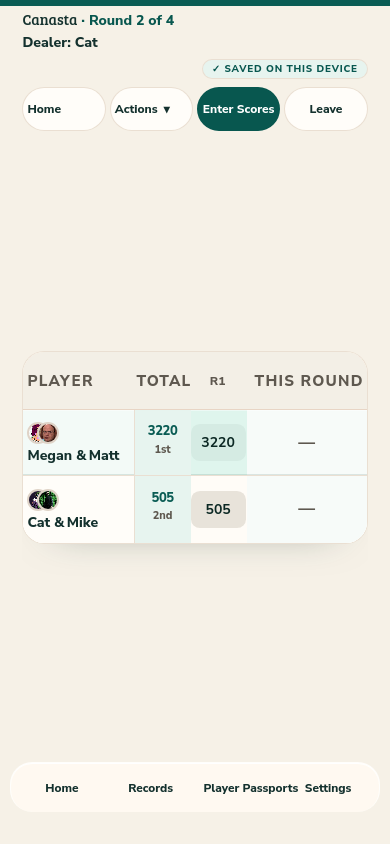
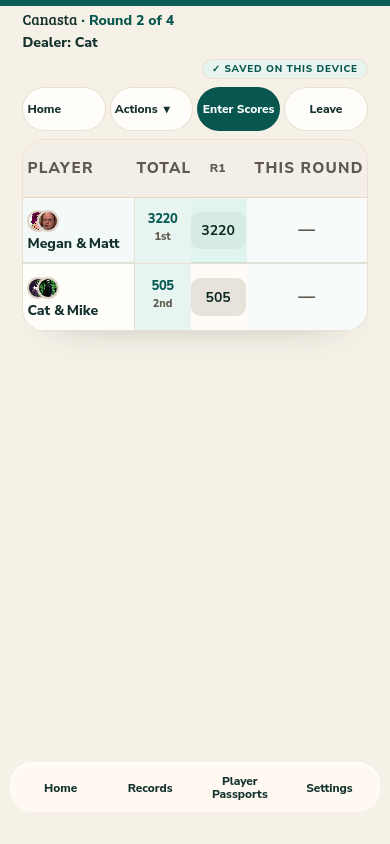
Give the phone bottom nav equal columns.
Home, Records, Player Passports, and Settings share the row, with a gap. Player Passports can take two lines. Hidden controls stay hidden.

diff --git a/public/index.html b/public/index.html
@@ -9625,12 +9625,24 @@ button.dealer-name-indicator .dealer-player-label {
       }
       html.slice2-tv body.active-match-view #top-nav > div > div:last-child {
         flex: 1 1 auto;
+        flex-wrap: nowrap;
         width: 100%;
-        justify-content: space-between;
+        gap: 0.35rem;
+        justify-content: stretch;
       }
-      html.slice2-tv body.active-match-view #top-nav .nav-btn {
+      html.slice2-tv body.active-match-view #top-nav .nav-btn:not(.hidden) {
         flex: 1 1 0;
+        width: 0;
+        min-width: 0 !important;
+        box-sizing: border-box;
         min-height: 44px;
+        height: auto;
+        padding: 0.28rem 0.2rem;
+        white-space: normal;
+        line-height: 1.15;
+        text-align: center;
+        display: flex;
+        align-items: center;
         justify-content: center;
       }
     }

diff --git a/AGENTS.md b/AGENTS.md
@@ -43,7 +43,7 @@ North star: crush requirements so one-shots get better every correction.
 - Warm Porch Ledger is the only production skin. Do not reintroduce `?slice2` / `GN_SLICE2_TV` forks. Gallery 818 and Wizard rows must be legal bids, actuals, and scores, including 818 dealer law. A desired Life Preserver gap does not license impossible totals. See `docs/solutions/rc1-one-skin.md`.
 - The worker that Vercel ships is `src/service-worker.js` copied over `public/sw.js` by `npm run build`. That template must precache the scripts the page loads (`life-preserver-logic.js`, `backup.js`, `scorebook.js`) and must not list `comeback-logic.js`. `npm run check` fails if they disagree, or if the template `CACHE_NAME` loses `__BACK_PORCH_RELEASE__` or the `back-porch-shell-` prefix. Do not treat the committed `public/sw.js` as what production serves after a build.
 - Phone scoreboard (`max-width: 760px`): one row of Home, Actions, and Enter Scores; Save & End is last in Actions and still confirms; the app nav stays on screen; the seat list scrolls inside the visual viewport. Do not clip later ranks. The back control says Home at every size and leaves the match on Resume. The round number stays in the header. A Life Preserver cell keeps the score size and grows in height so the adjustment fits.
-- A hidden scorecard column is not a deleted hand. If Pace or the column trim removes the hand a Life Preserver followed, the mark sits with Total. Place ties use the same numeric comparison as the sort, including numeric strings. See `docs/solutions/scorecard-places-and-life-preserver.md`. Reserve NOW min-width and shrink round columns; do not hide another oldest hand to unclip a NOW that is already on screen. See `docs/solutions/rc2-look-1400.md`. The live scorecard card keeps a stable max width and does not run edge to edge. Do not hug a long table after Round 1. A two-team Canasta card hugs its rows and keeps the team name on one line. Phone nav says Player Passports and Settings. Biggest comeback is ranked inside each game, on that game's points. See `docs/solutions/bt-board-and-comeback.md`. The player column takes leftover width; Total and rounds stay fixed. Displayed records, passport, and scorecard numbers use at most one decimal. Wins, win %, win streak, and games played follow the saved outcome: finished counts, ended early and needs review count only with Count this result, and a pause does not. A counted partial total is never a full-game score record. Every tied winner gets a win. Left early never wins. See `docs/solutions/rc4-usability.md`.
+- A hidden scorecard column is not a deleted hand. If Pace or the column trim removes the hand a Life Preserver followed, the mark sits with Total. Place ties use the same numeric comparison as the sort, including numeric strings. See `docs/solutions/scorecard-places-and-life-preserver.md`. Reserve NOW min-width and shrink round columns; do not hide another oldest hand to unclip a NOW that is already on screen. See `docs/solutions/rc2-look-1400.md`. The live scorecard card keeps a stable max width and does not run edge to edge. Do not hug a long table after Round 1. A two-team Canasta card hugs its own height, stays under the header, and keeps the team name on one line. Phone nav says Player Passports and Settings, and the bottom row gives those labels equal widths. Biggest comeback is ranked inside each game, on that game's points. See `docs/solutions/bt-board-and-comeback.md`. The player column takes leftover width; Total and rounds stay fixed. Displayed records, passport, and scorecard numbers use at most one decimal. Wins, win %, win streak, and games played follow the saved outcome: finished counts, ended early and needs review count only with Count this result, and a pause does not. A counted partial total is never a full-game score record. Every tied winner gets a win. Left early never wins. See `docs/solutions/rc4-usability.md`.
 - Life Preserver labels stay inside every slice. About 20-40 equal-ish pockets. Category shares stay exact via subtle widths; the draw still uses the live 45/30/5/12/8 table. No callouts, leader lines, or casino red/black. Cute cream/teal toy roulette, not casino chrome. Size the modal from leftover viewport so Use Your One Spin stays on screen. `?lp=proposed` is removed from the page. Proposed amounts stay in unit tests via `options.table`. See `docs/solutions/rc1-lp-roulette-wheel.md`.
 - Do not ship TEMP demo-loading. `public/assets/demo-seed.mjs`, `demo-art.mjs`, `demo-art.css`, `bootDemoSeedIfRequested`, and `window.BPGDemoLiveGame` stay out of the app. Tests inject fixtures. The gated `?gnqa` gallery can stay. See `docs/solutions/rc2-no-demo-seed.md`.
 - Laptop Home columns stretch to the same height. Seats are one per row and reorder in the list. Recent nights stays full width. Home reorder writes `players` only; it does not restack an active match. See `docs/solutions/home-recent-nights-column.md`.

diff --git a/docs/solutions/gate-log.md b/docs/solutions/gate-log.md
@@ -177,3 +177,5 @@ The table starts with a header and one example row. The example is the format. I
 | 2026-11-13 | bs-polish | taste_ui. The wheel control stays on the right of the player cell. A comeback uses the shelf name and names both partners. A Canasta round in progress is a labeled sum. | 3 | n/a | fallback | Gate C. Conservative. The packet is in the draft PR. Duke, Brick, and Linda stay whole at 1024 and 390. The team row says Cat and Mike won Canasta. A blank Canasta round says Not ready, and Basic 800 + Count 150 reads 950 so far. The lead toast stays inside the card and above the phone nav. Draft only. Do not undraft, merge, or deploy. |
 | 2026-11-13 | bt-board-and-comeback | taste_ui. A lead toast names the team that passed. Canasta names stay one line and the card hugs two rows. Phone nav says Player Passports and Settings. Biggest comeback is ranked inside each game. | 3 | n/a | fallback | Gate B. Proceed on draft PR #86. Rank within each game and keep that game's points. Do not change score math. Do not touch Rook, Comeback Extra, or sync. Do not undraft, merge, or deploy. |
 | 2026-11-13 | bt-board-and-comeback | taste_ui. A lead toast names the team that passed. Canasta names stay one line and the card hugs two rows. Phone nav says Player Passports and Settings. Biggest comeback is ranked inside each game. | 3 | n/a | fallback | Gate C. Conservative. The packet is in the draft PR. Cat & Mike take the lead on the real board. Megan & Matt stays one line and the card ends at the second row. Phone nav says Player Passports and Settings. Wizard 100 and Canasta 180 both stay. Draft only. Do not undraft, merge, or deploy. |
+| 2026-11-13 | bu-pin-and-nav | taste_ui. The Canasta card sits under the header. Only the card height hugs. The phone bottom nav has four equal columns and a gap. | 2 | n/a | fallback | Gate B. Proceed on draft PR #86. Do not center other short tables. Do not change the top home nav or the 768 Settings mark. Do not undraft, merge, or deploy. |
+| 2026-11-13 | bu-pin-and-nav | taste_ui. The Canasta card sits under the header. Only the card height hugs. The phone bottom nav has four equal columns and a gap. | 2 | n/a | fallback | Gate C. Conservative. The packet is in the draft PR. Canasta at 1024 and 390 starts under the header. Five Crowns 4-player and 8-player stay under the header. Phone nav at 390 and 375 keeps a gap and equal widths. Draft only. Do not undraft, merge, or deploy. |

diff --git a/docs/solutions/bt-board-and-comeback.md b/docs/solutions/bt-board-and-comeback.md
@@ -2,8 +2,8 @@
 
 A lead-toast proof has to come from a submitted round. Injecting "Ann & Bo" onto a Megan & Matt / Cat & Mike board reads as a wrong name. Enter the round so the trailing team passes, then shoot that toast.
 
-Canasta team names stay on one line (`Megan & Matt`) when the cell has room. Do not force `Megan &` / `Matt` onto two lines. A two-team card ends at the last row. The phone shell can still fill the screen; the card does not. Other games keep the stable card width.
+Canasta team names stay on one line (`Megan & Matt`) when the cell has room. Do not force `Megan &` / `Matt` onto two lines. A two-team card ends at the last row and sits under the header. The phone shell can still fill the screen; the card does not, and it does not float in the leftover cream. Other games keep the stable card width.
 
-Phone nav, top and bottom, says Player Passports and Settings. The 768 row still uses the short Settings mark.
+Phone nav, top and bottom, says Player Passports and Settings. The bottom row gives the labels equal widths, with a gap. Player Passports may take two lines. The 768 row still uses the short Settings mark.
 
 Biggest comeback is ranked inside each game. Explore shows Biggest Wizard comeback at 100 and Biggest Canasta comeback at 180. Raw points do not pick one winner across games. The deficit math is unchanged. Comeback Extra stays off.

diff --git a/docs/taste.md b/docs/taste.md
@@ -10,6 +10,8 @@ Canonical list: [taste-ledger.md](taste-ledger.md). After every durable Matt cor
 
 ### Likes
 
+- A two-team Canasta card sits under the header and View Pace. Only the card's own height hugs the rows.
+- The phone bottom nav gives Home, Records, Player Passports, and Settings equal widths, with a gap between them. Player Passports may take two lines.
 - Biggest comeback is ranked inside each game. A Canasta deficit does not erase a Wizard comeback. Each row keeps that game's own points.
 - Phone nav, on top and on the bottom of a live match, says Player Passports and Settings. Settings stays a word.
 - A Canasta team name stays on one line (`Megan & Matt`) when the cell has room beside it. The live card ends at the last team row.
@@ -96,6 +98,7 @@ Canonical list: [taste-ledger.md](taste-ledger.md). After every durable Matt cor
 
 ### Kills
 
+- Floating a short Canasta card in the middle of the cream, or letting the phone bottom-nav labels touch.
 - Comparing raw comeback points across games, so a Canasta 180 always outranks a Wizard 100.
 - A phone nav that says Profiles, or a Settings control that is only a gear.
 - Wrapping a Canasta team name onto two lines when `Megan & Matt` fits beside the avatars, or leaving a cream block under two team rows.

diff --git a/docs/taste-ledger.md b/docs/taste-ledger.md
@@ -6,6 +6,8 @@ Seeded from Prefer, Avoid, and Kill in `docs/taste.md`. Product rules stay in `d
 
 ## Likes
 
+- A two-team Canasta card sits under the header and View Pace. Only the card's own height hugs the rows.
+- The phone bottom nav gives Home, Records, Player Passports, and Settings equal widths, with a gap between them. Player Passports may take two lines.
 - Biggest comeback is ranked inside each game. A Canasta deficit does not erase a Wizard comeback. Each row keeps that game's own points.
 - Phone nav, on top and on the bottom of a live match, says Player Passports and Settings. Settings stays a word.
 - A Canasta team name stays on one line (`Megan & Matt`) when the cell has room beside it. The live card ends at the last team row.
@@ -92,6 +94,7 @@ Seeded from Prefer, Avoid, and Kill in `docs/taste.md`. Product rules stay in `d
 
 ## Kills
 
+- Floating a short Canasta card in the middle of the cream, or letting the phone bottom-nav labels touch.
 - Comparing raw comeback points across games, so a Canasta 180 always outranks a Wizard 100.
 - A phone nav that says Profiles, or a Settings control that is only a gear.
 - Wrapping a Canasta team name onto two lines when `Megan & Matt` fits beside the avatars, or leaving a cream block under two team rows.

diff --git a/docs/solutions/README.md b/docs/solutions/README.md
@@ -16,7 +16,7 @@ Standing trap: [leave-game-outcomes.md](leave-game-outcomes.md) — one Leave ga
 
 Standing trap: [bs-polish.md](bs-polish.md) — the wheel control stays on the right of the name. A comeback uses the shelf name and both partners. A Canasta round in progress is a labeled sum.
 
-Standing trap: [bt-board-and-comeback.md](bt-board-and-comeback.md) — Canasta team names stay one line. A two-team card hugs its rows. Phone nav says Player Passports and Settings. Biggest comeback is one row per game.
+Standing trap: [bu-pin-and-nav.md](bu-pin-and-nav.md) — The Canasta card sits under the header. Only its own height hugs. The phone bottom nav has equal columns and a gap. [bt-board-and-comeback.md](bt-board-and-comeback.md) — Canasta team names stay one line. Phone nav says Player Passports and Settings. Biggest comeback is one row per game.
 
 Standing trap: [rc4-live-records.md](rc4-live-records.md) — Canasta places use the team key. Biggest comeback is ordinary round history. A cleared Canasta breakdown does not keep the old parts.
 

diff --git a/docs/solutions/bu-pin-and-nav.md b/docs/solutions/bu-pin-and-nav.md
@@ -1,0 +1,5 @@
+# Pin the Canasta card and split the phone nav
+
+A two-team Canasta card stays short. That short height used to sit in the middle of the cream, about 220px under the header. Pin it under the header and View Pace. Other short tables still share leftover cream. Four-player and eight-player boards stay where they were.
+
+The phone bottom nav has four equal columns and a real gap. Player Passports may wrap to two lines. Settings stays a word. The top home nav stays one row of buttons under the wordmark. The 768 row still uses the short Settings mark.
